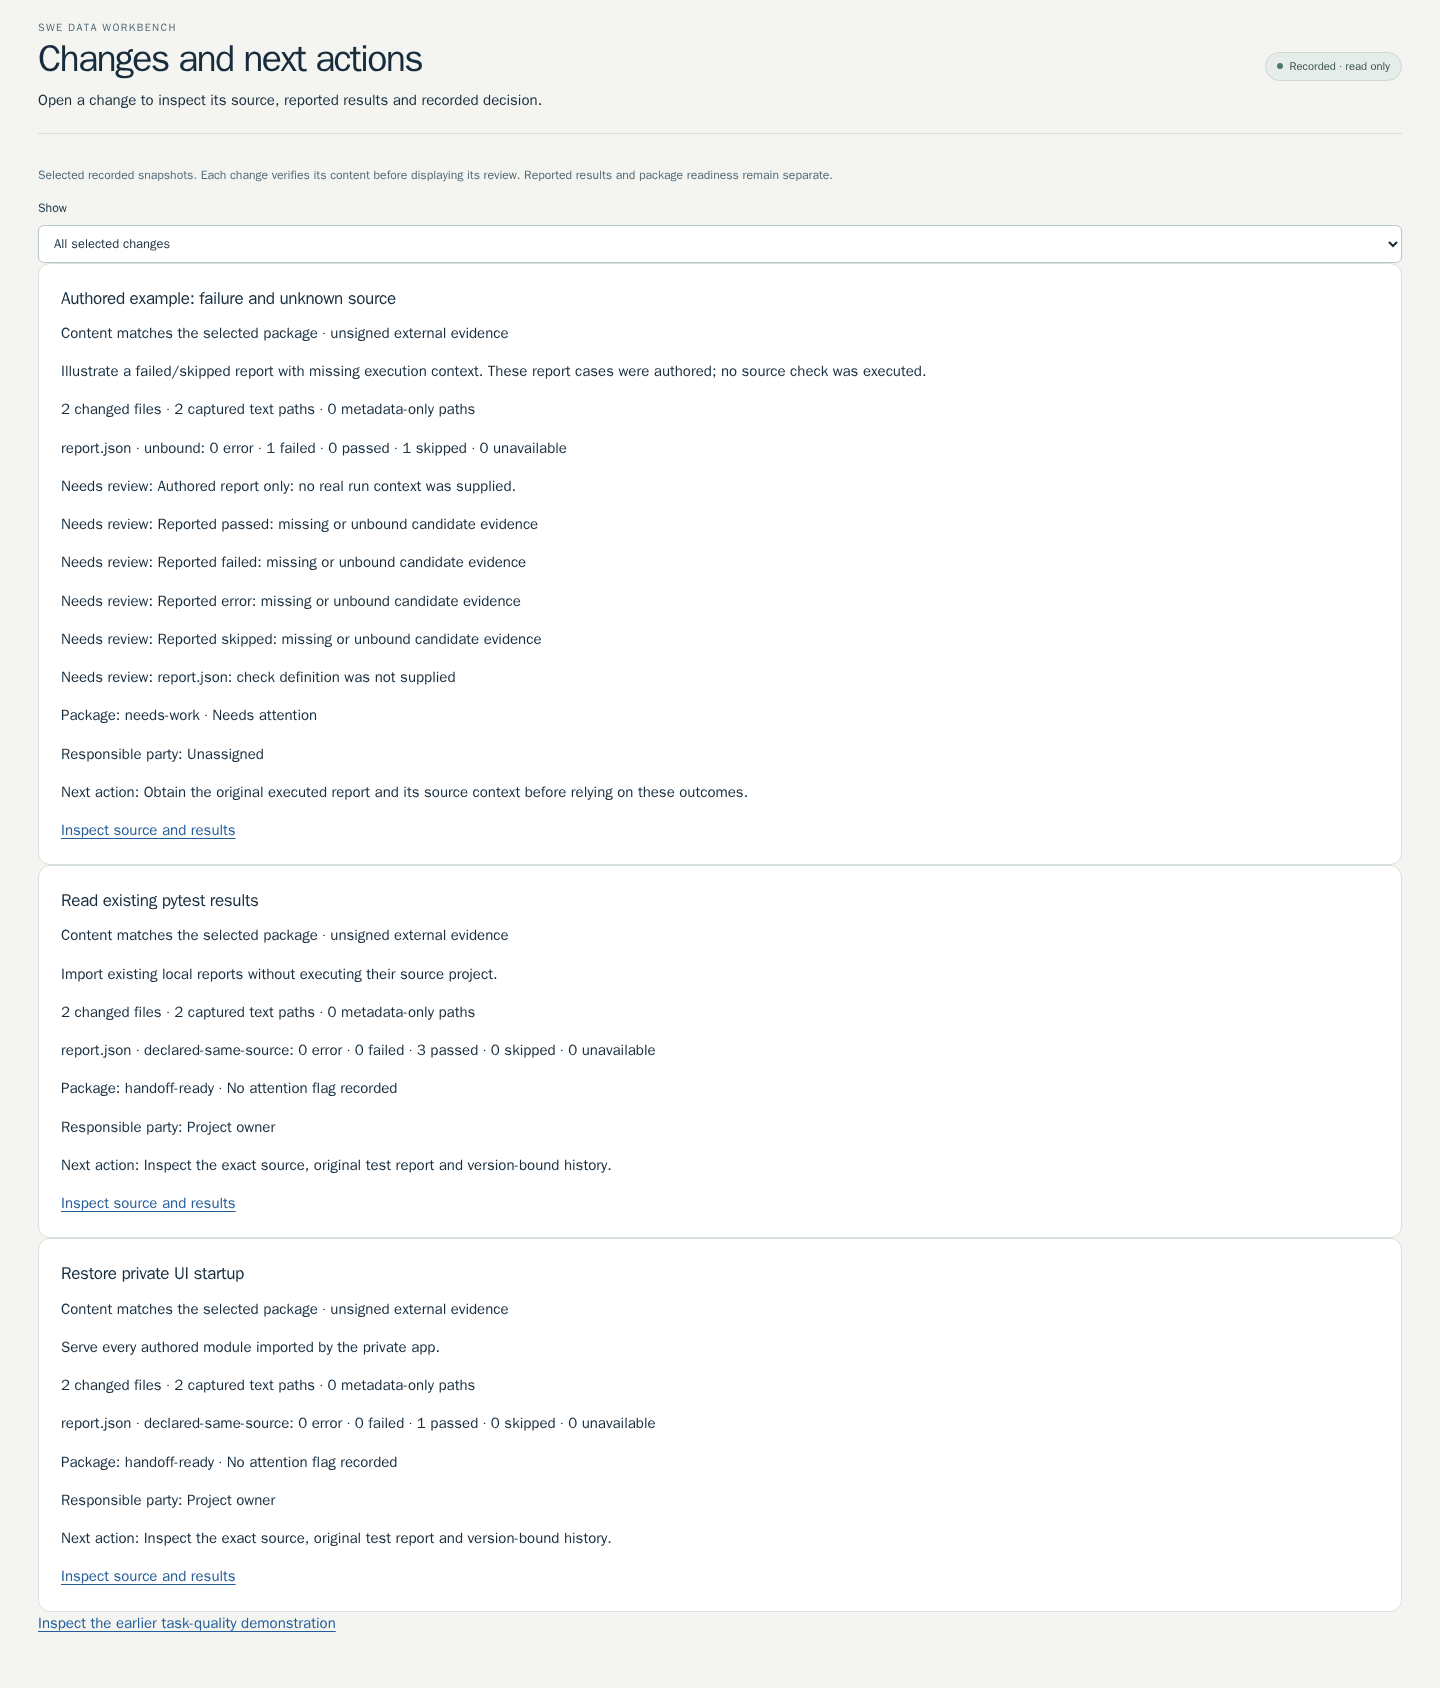
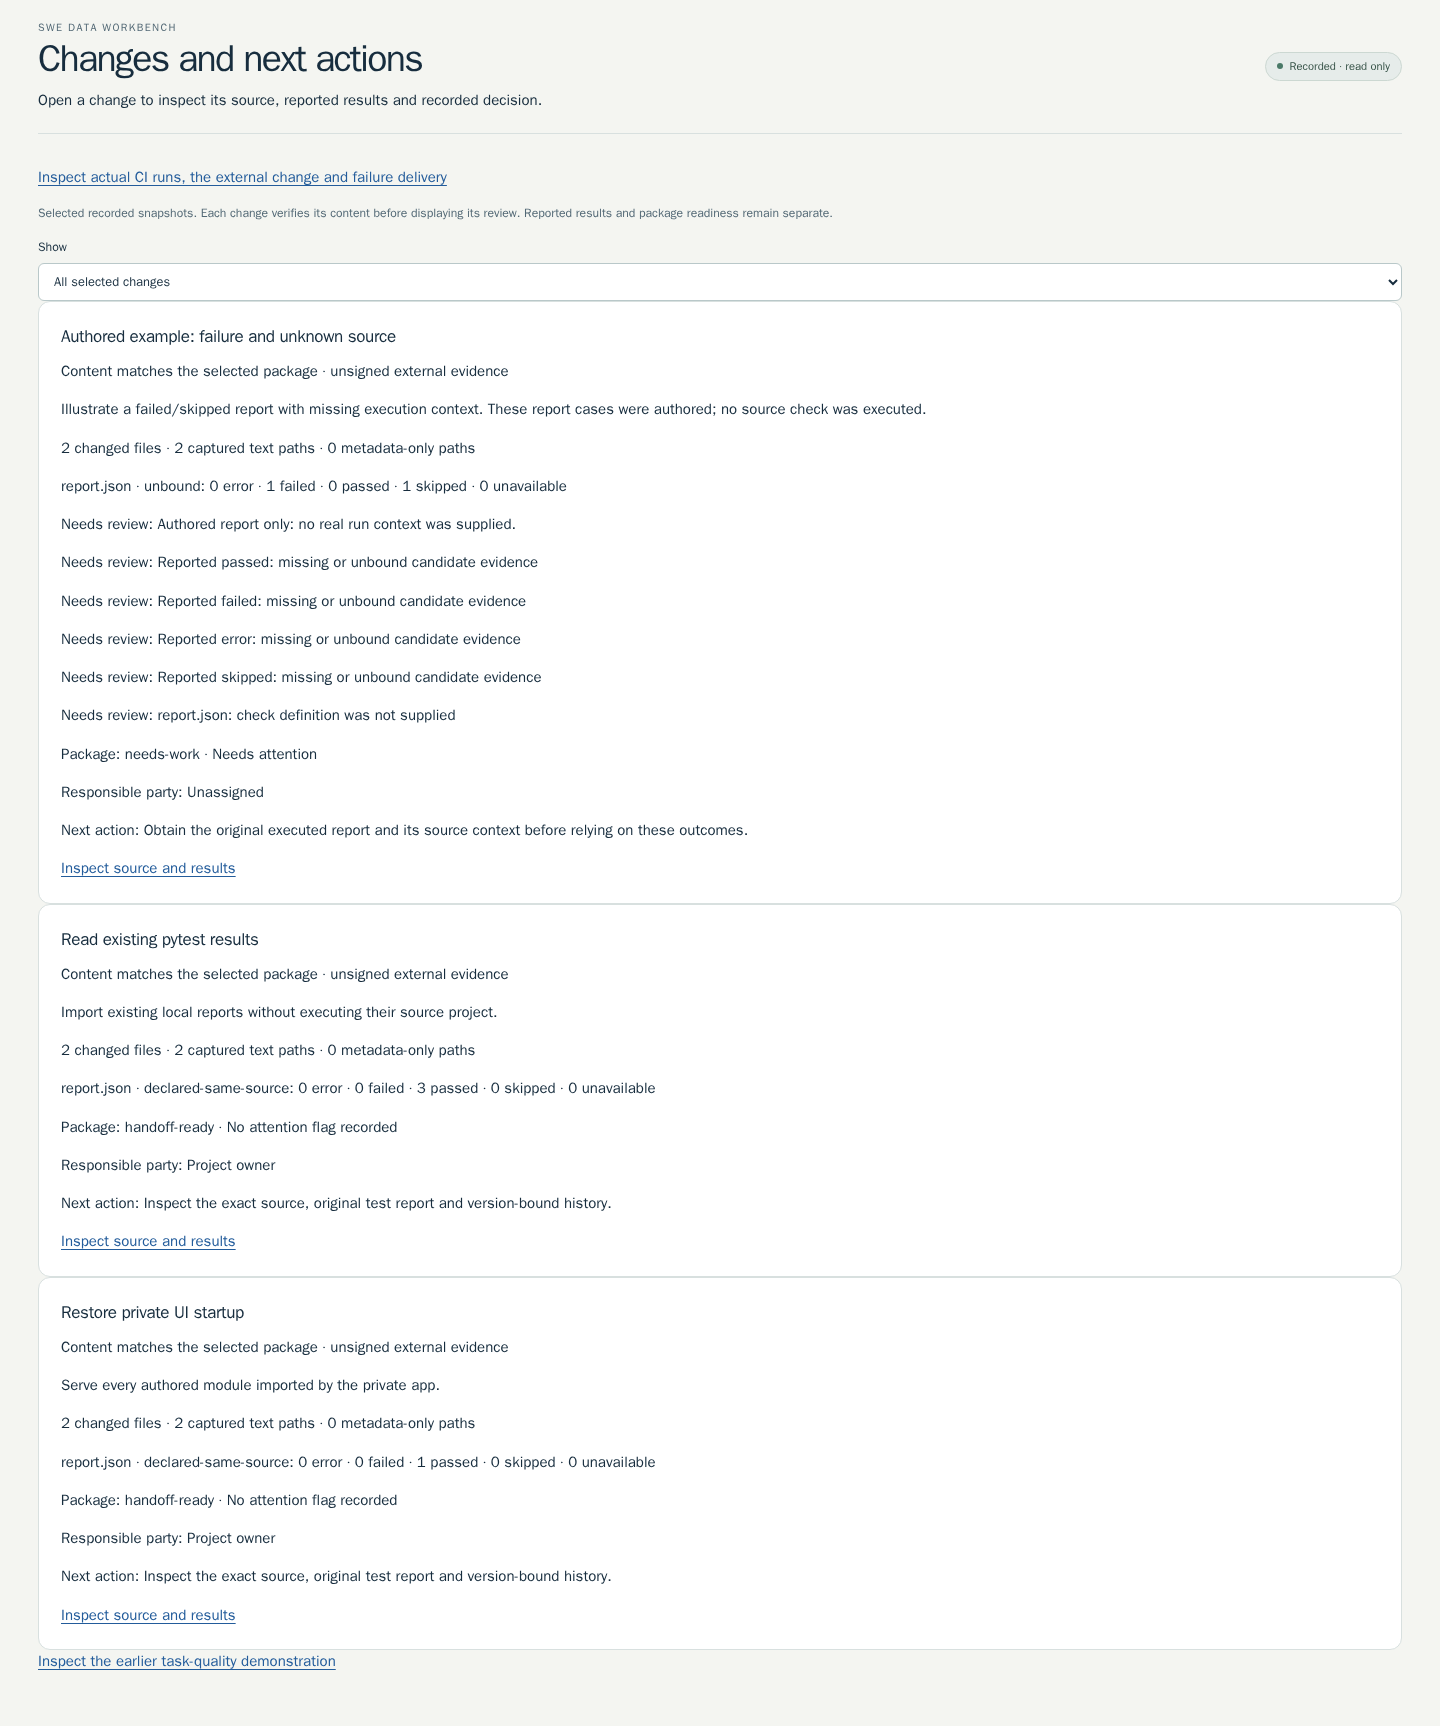
Publish qualified CI evidence and external change gallery

diff --git a/tools/build_ci_gallery.py b/tools/build_ci_gallery.py
@@ -1,0 +1,33 @@
+"""Add explicitly selected public CI evidence to an existing owned static build."""
+import argparse,html,json,shutil
+from pathlib import Path
+from swe_workbench.handoff import verify,parse,require
+from swe_workbench.ci_evidence import validate
+
+ALLOWED={'view','export','summary.json','original.xml','ci-receipt.json','run-context.json','check-definition.json','package-status.json','UPSTREAM-LICENSE.txt','UPSTREAM.json'}
+
+def build(dist, normal, external, failure):
+    dist=Path(dist).resolve();require((dist/'index.html').is_file() and not (dist/'ci').exists(),'gallery: select an existing static build without ci/')
+    selected=[]
+    for name,title,source in [('normal','Actual workbench CI checks',normal),('external','Historical itsdangerous change',external),('intentional-failure','Intentional failing-check qualification',failure)]:
+        source=Path(source).resolve();require(set(p.name for p in source.iterdir())<=ALLOWED and not any(p.is_symlink() for p in source.rglob('*')),'gallery: unexpected or linked private inputs')
+        require(verify(source/'export')['ok'] and verify(source/'view/handoff')['ok'],'gallery: selected package failed verification')
+        ci=validate((source/'ci-receipt.json').read_bytes(),(source/'original.xml').read_bytes(),(source/'run-context.json').read_bytes(),(source/'check-definition.json').read_bytes())
+        require(ci['product_repository']==('pallets/itsdangerous' if name=='external' else 'RedRookAI/swe-data-workbench') and ci['exit_code']==(1 if name=='intentional-failure' else 0),'gallery: selected case identity/outcome differs')
+        record=parse((source/'export/handoff.json').read_bytes());require(record['material']['reported_checks'][0]['ci']==ci,'gallery: provenance differs from selected export')
+        require(record['state']['decision']=='unreviewed','gallery: expected original unreviewed selection')
+        selected.append((name,title,source,ci,record['material']['reported_checks'][0]['counts']))
+    target=dist/'ci';target.mkdir()
+    cards=[]
+    for name,title,source,ci,counts in selected:
+        shutil.copytree(source,target/name)
+        counts_text=', '.join(str(value)+' '+key for key,value in counts.items() if value)
+        cards.append('<section><h2><a href="./'+name+'/view/">'+html.escape(title)+'</a></h2><p>'+html.escape(counts_text+'; process '+str(ci['exit_code'])+' ('+ci['process_outcome']+'); review unreviewed.')+'</p><p>'+html.escape(ci['product_repository']+' @ '+ci['tested_revision'])+'</p></section>')
+    page='<!doctype html><html lang="en"><head><meta charset="utf-8"><meta name="viewport" content="width=device-width,initial-scale=1"><meta name="referrer" content="no-referrer"><title>Actual CI evidence · SWE Data Workbench</title><link rel="stylesheet" href="../style.css"></head><body><main class="main"><h1>Actual CI runs, retained with their changes</h1><p>Open a selected change to inspect its source, original pytest results, observed run context and explicit review status.</p><p>The external change is historical upstream work. The intentional failure is a real, opt-in pytest assertion used to check evidence delivery after failure. All three packages remain unreviewed.</p>'+''.join(cards)+'<p>Unsigned pre/post observations supply content consistency, not independent execution attestation. The source/check scope and original report are retained in each view.</p><p><a href="../">Return to recorded reviews</a></p></main></body></html>'
+    (target/'index.html').write_text(page)
+    index=dist/'index.html';index.write_text(index.read_text().replace('</header>','</header><p><a id="ci-evidence-link" href="./ci/">Inspect actual CI runs, the external change and failure delivery</a></p>',1))
+    return {'selected_cases':3,'private_state_included':False,'output':str(target)}
+if __name__=='__main__':
+    p=argparse.ArgumentParser(description=__doc__)
+    for key in ('dist','normal','external','failure'):p.add_argument('--'+key,type=Path,required=True)
+    a=p.parse_args();print(json.dumps(build(a.dist,a.normal,a.external,a.failure)))

diff --git a/docs/verification.md b/docs/verification.md
@@ -1,9 +1,27 @@
 # Verification: 0.1.0a10
 
-Checked2026-11-12. Scope: observed pytest evidence, optional CI receipts, fixed CI artifact delivery and one pinned external change. Historical0.1.0a9 verification is preserved byte-for-byte in verification-v0.1.0a9.md/json.
+Checked2026-11-12. Runtime source145fdd19fd30cea0367d6b2a07439c67044dbf9d adds observed pytest evidence, optional CI receipts, fixed artifact delivery and one external historical change. Original0.1.0a9 verification remains byte-identical in verification-v0.1.0a9.md/json; old tags, exports and release bytes are preserved.
 
-Ten focused producer/package/containment/recipe checks passed after the changes. They exercised cross-link tampering, source/input/HEAD changes, provider/product identity separation, missing/malformed/empty reports, original process statuses, selected artifact contents, resume, report-only behavior and comparison policies. XML/status fixtures in these checks are authored and labeled.
+Ten focused component checks passed. After validator hardening, the six affected producer/recipe checks passed. Fixtures cover cross-link tampering, source/input/HEAD changes, workflow/product/PR identity separation, missing/malformed/empty reports, process status, selected allowlist, resume, ordinary report compatibility and base policy. Their authored XML/status inputs are labeled. The final clean-source normal invocation passed all18 selected checks, with one existing Starlette test-client/httpx deprecation warning. The same invocation produced its real XML and a verified, unreviewed package.
 
-The local external recipe acquired the pinned itsdangerous historical source into a fresh owned copy, confirmed imports from candidate src and executed the original signer tests:17 passed, exit0. Its selected package verified and remains unreviewed. Upstream source/workflow was not changed. This does not establish baseline failure, FIPS compliance or a general model result.
+The final installed wheel SHA256 is b511e81011e74b5d95a1dea5ec2ea54a03d39e4283b4fd882047e12c3b26172f. Isolated installed compatibility matched51 module/asset files, verified original v1/v2 exports, preserved retries and stale/occupied-output refusal, restored/continued state and left unknown source unresolved. The installed daily rehearsal also passed owner connection, actual private module delivery, attention/detail, exact original duration text and restore. That rehearsal uses authored reports and scripted reviews; it does not claim new source test execution.
 
-Final installed, actual hosted/upload/download and public browser publication evidence will be appended after it is observed. No full-suite or new model evaluation is part of this checkpoint.
+## Actual hosted results
+
+All three runs used runtime source145fdd19fd30cea0367d6b2a07439c67044dbf9d, first attempt and read-only permissions.
+
+- Normal43226409121 succeeded:18 passed, process0, clean workbench source. Packaging/upload and installed compatibility/daily rehearsal succeeded.
+- External43226500722 succeeded:17 original signer tests passed, process0, clean pinned itsdangerous candidate7f4dcf83a07bb3d53f4e0e65ef1b43327b4cca90. Its imported src path is retained in the definition. Workflow source remains the workbench, separately identified. Upstream is unchanged and its BSD notice accompanies the package.
+- Intentional qualification43226505309 failed as intended:one actual failing assertion, process1. Packaging/upload succeeded and the workflow remained failed. This is an opt-in authored delivery probe, separate from normal product checks.
+
+https://github.com/RedRookAI/swe-data-workbench/actions/runs/43226409121
+
+https://github.com/RedRookAI/swe-data-workbench/actions/runs/43226500722
+
+https://github.com/RedRookAI/swe-data-workbench/actions/runs/43226505309
+
+The original three downloaded ZIP sizes/SHA256 values matched native provider receipts. Both export/ and view/handoff/ verified internally. Exact receipt/report/context/definition/source relationships matched each actual run; all three packages remained unreviewed. Provider ZIP identity and workbench manifest identity are recorded separately. Selected staging excluded private state, contexts, assembly receipts, owner selections, environments and unrelated logs. Original CI downloads require GitHub login and retention; the release retains audited copies with the original ZIP bytes.
+
+The final local public build passed all three CI detail views, actual run links/source/counts/statuses, original receipt access and mobile fit. It also passed the existing three-change overview/detail/filter/history/downloads, original numeric duration text, earlier task-quality and three historical paths. Captions returned200; video stayed paused/muted with controls/low volume and retained deliberate volume0. No page errors, API calls or external resource requests occurred. Hosted publication verification is appended below when observed.
+
+This is unsigned pre/post evidence, not a continuously observed or hermetic run. Canceled runners may never produce an artifact. A valid empty report retains zero executed cases; missing/malformed reports produce diagnostics instead of invented cases. No full-suite or new application model evaluation was run. Human usability/time saving, general correctness and production readiness remain unmeasured. Keep, fleet services and existing input workspaces were untouched.

diff --git a/docs/ci-review.md b/docs/ci-review.md
@@ -69,6 +69,8 @@ Upload uses the pinned native upload-artifact action, hidden files disabled, ove
 
 Download through GitHub's artifact control while signed in. After extraction, use verify-handoff on export/ or view/handoff/. Provider ZIP SHA256 and the workbench manifest digest identify different layers; compare each with its corresponding receipt. Serve view/ through an existing trusted HTTP connection. A double-clicked file:// page cannot reliably load its modules/evidence. The audited public selection on the existing preview provides an anonymous browser route and the release retains a stable chosen download.
 
+For an existing static workbench build, tools/build_ci_gallery.py can add these three explicitly selected extracted artifacts using --dist, --normal, --external and --failure. It verifies each export, receipt, source/outcome and file allowlist before copying. Only use public-safe inputs. Existing CI selections refuse overwrite; start with the retained earlier build for a different selection.
+
 ## Research checked2026-11-12
 
 GitHub variable/event and artifact documentation supplies the identity, status and delivery behavior. Current tagged upload-artifact v7 was checked against its official ref; older tutorial snippets still use v4. Pytest documents JUnit and exit meanings. Research about artifact verifiability motivated retained source/recipe context; this preview makes no measured reproducibility, independent-attestation or model-quality claim.

diff --git a/README.md b/README.md
@@ -36,6 +36,10 @@ The GitHub workflow now records its selected pytest invocation once, retains the
 
 The same fixed recipe can inspect a pinned historical itsdangerous change. Its original signer tests run against the selected source; upstream authorship and the BSD notice stay with the export. The intentional failure option is a separate, clearly labeled artifact-delivery check.
 
+The published qualification retained18 passing workbench checks,17 passing upstream signer checks and one intentional failure. Open the actual CI examples:
+
+https://swe-data-workbench.flyswatterghost.chatgpt.site/ci/
+
 See docs/ci-review.md for the commands, base-selection policy, artifact contents and limits. CI downloads require GitHub sign-in and follow repository retention. The selected browser view needs HTTP serving; the public preview supplies that for audited examples.
 
 ## Review the original real-change example
